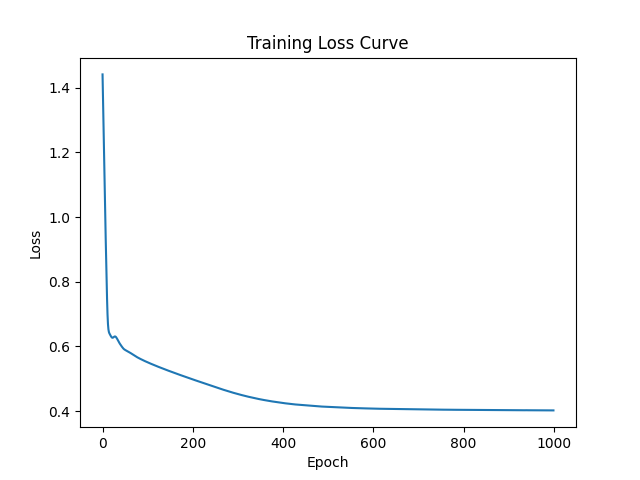
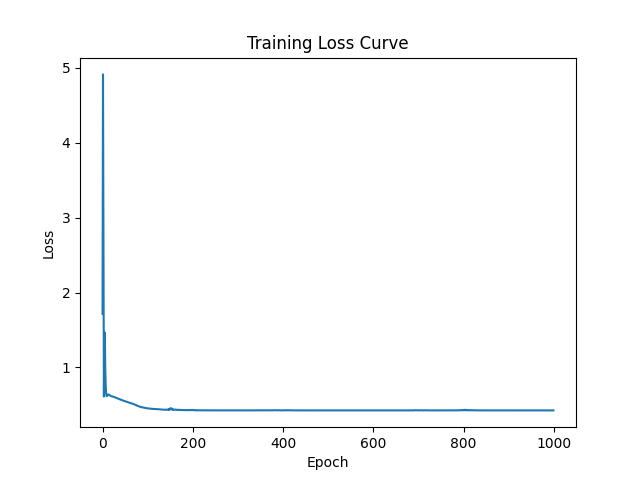
add ability to rank optuna trails by f1 score.

diff --git a/titanic/training.py b/titanic/training.py
@@ -1,5 +1,7 @@
 """Hyperparameter tuning with Optuna."""
 
+from sklearn.metrics import f1_score
+
 import optuna
 import torch
 import torch.nn as nn
@@ -47,8 +49,9 @@ class Trainer:
         with torch.no_grad():
             preds = (self.model(X_val) >= 0.5).float()
             accuracy = (preds == y_val).float().mean().item()
+            f1 = f1_score(y_val.squeeze().numpy(), preds.squeeze().numpy())
 
-        return accuracy, losses
+        return f1, accuracy, losses
 
 
 class HyperparameterTuner:
@@ -66,7 +69,7 @@ class HyperparameterTuner:
         lr = trial.suggest_float("lr", 1e-5, 1e-1, log=True)
         model = SurvivalModel(self.X_tr.shape[1], hidden_dim)
         trainer = Trainer(model, lr)
-        accuracy, _ = trainer.train(self.X_tr, self.y_tr, self.X_val, self.y_val)
+        f1, accuracy, _ = trainer.train(self.X_tr, self.y_tr, self.X_val, self.y_val)
         return accuracy
 
     def tune(self):

diff --git a/titanic/main.py b/titanic/main.py
@@ -76,12 +76,13 @@ tuner.tune()
 
 model = SurvivalModel(X_train.shape[1], tuner.best_params["hidden_dim"])
 trainer = Trainer(model, tuner.best_params["lr"])
-accuracy, losses = trainer.train(X_tr, y_tr, X_val, y_val)
-print(f"Validation Accuracy: {accuracy:.4f}")
+f1, accuracy, losses = trainer.train(X_tr, y_tr, X_val, y_val)
+print(f"Validation F1 score: {f1:.4f}, accuracy: {accuracy:.4f}")
 torch.save(
     {
         "model_state_dict": model.state_dict(),
         "best_params": tuner.best_params,
+        "f1": f1,
         "accuracy": accuracy,
         "losses": losses,
     },